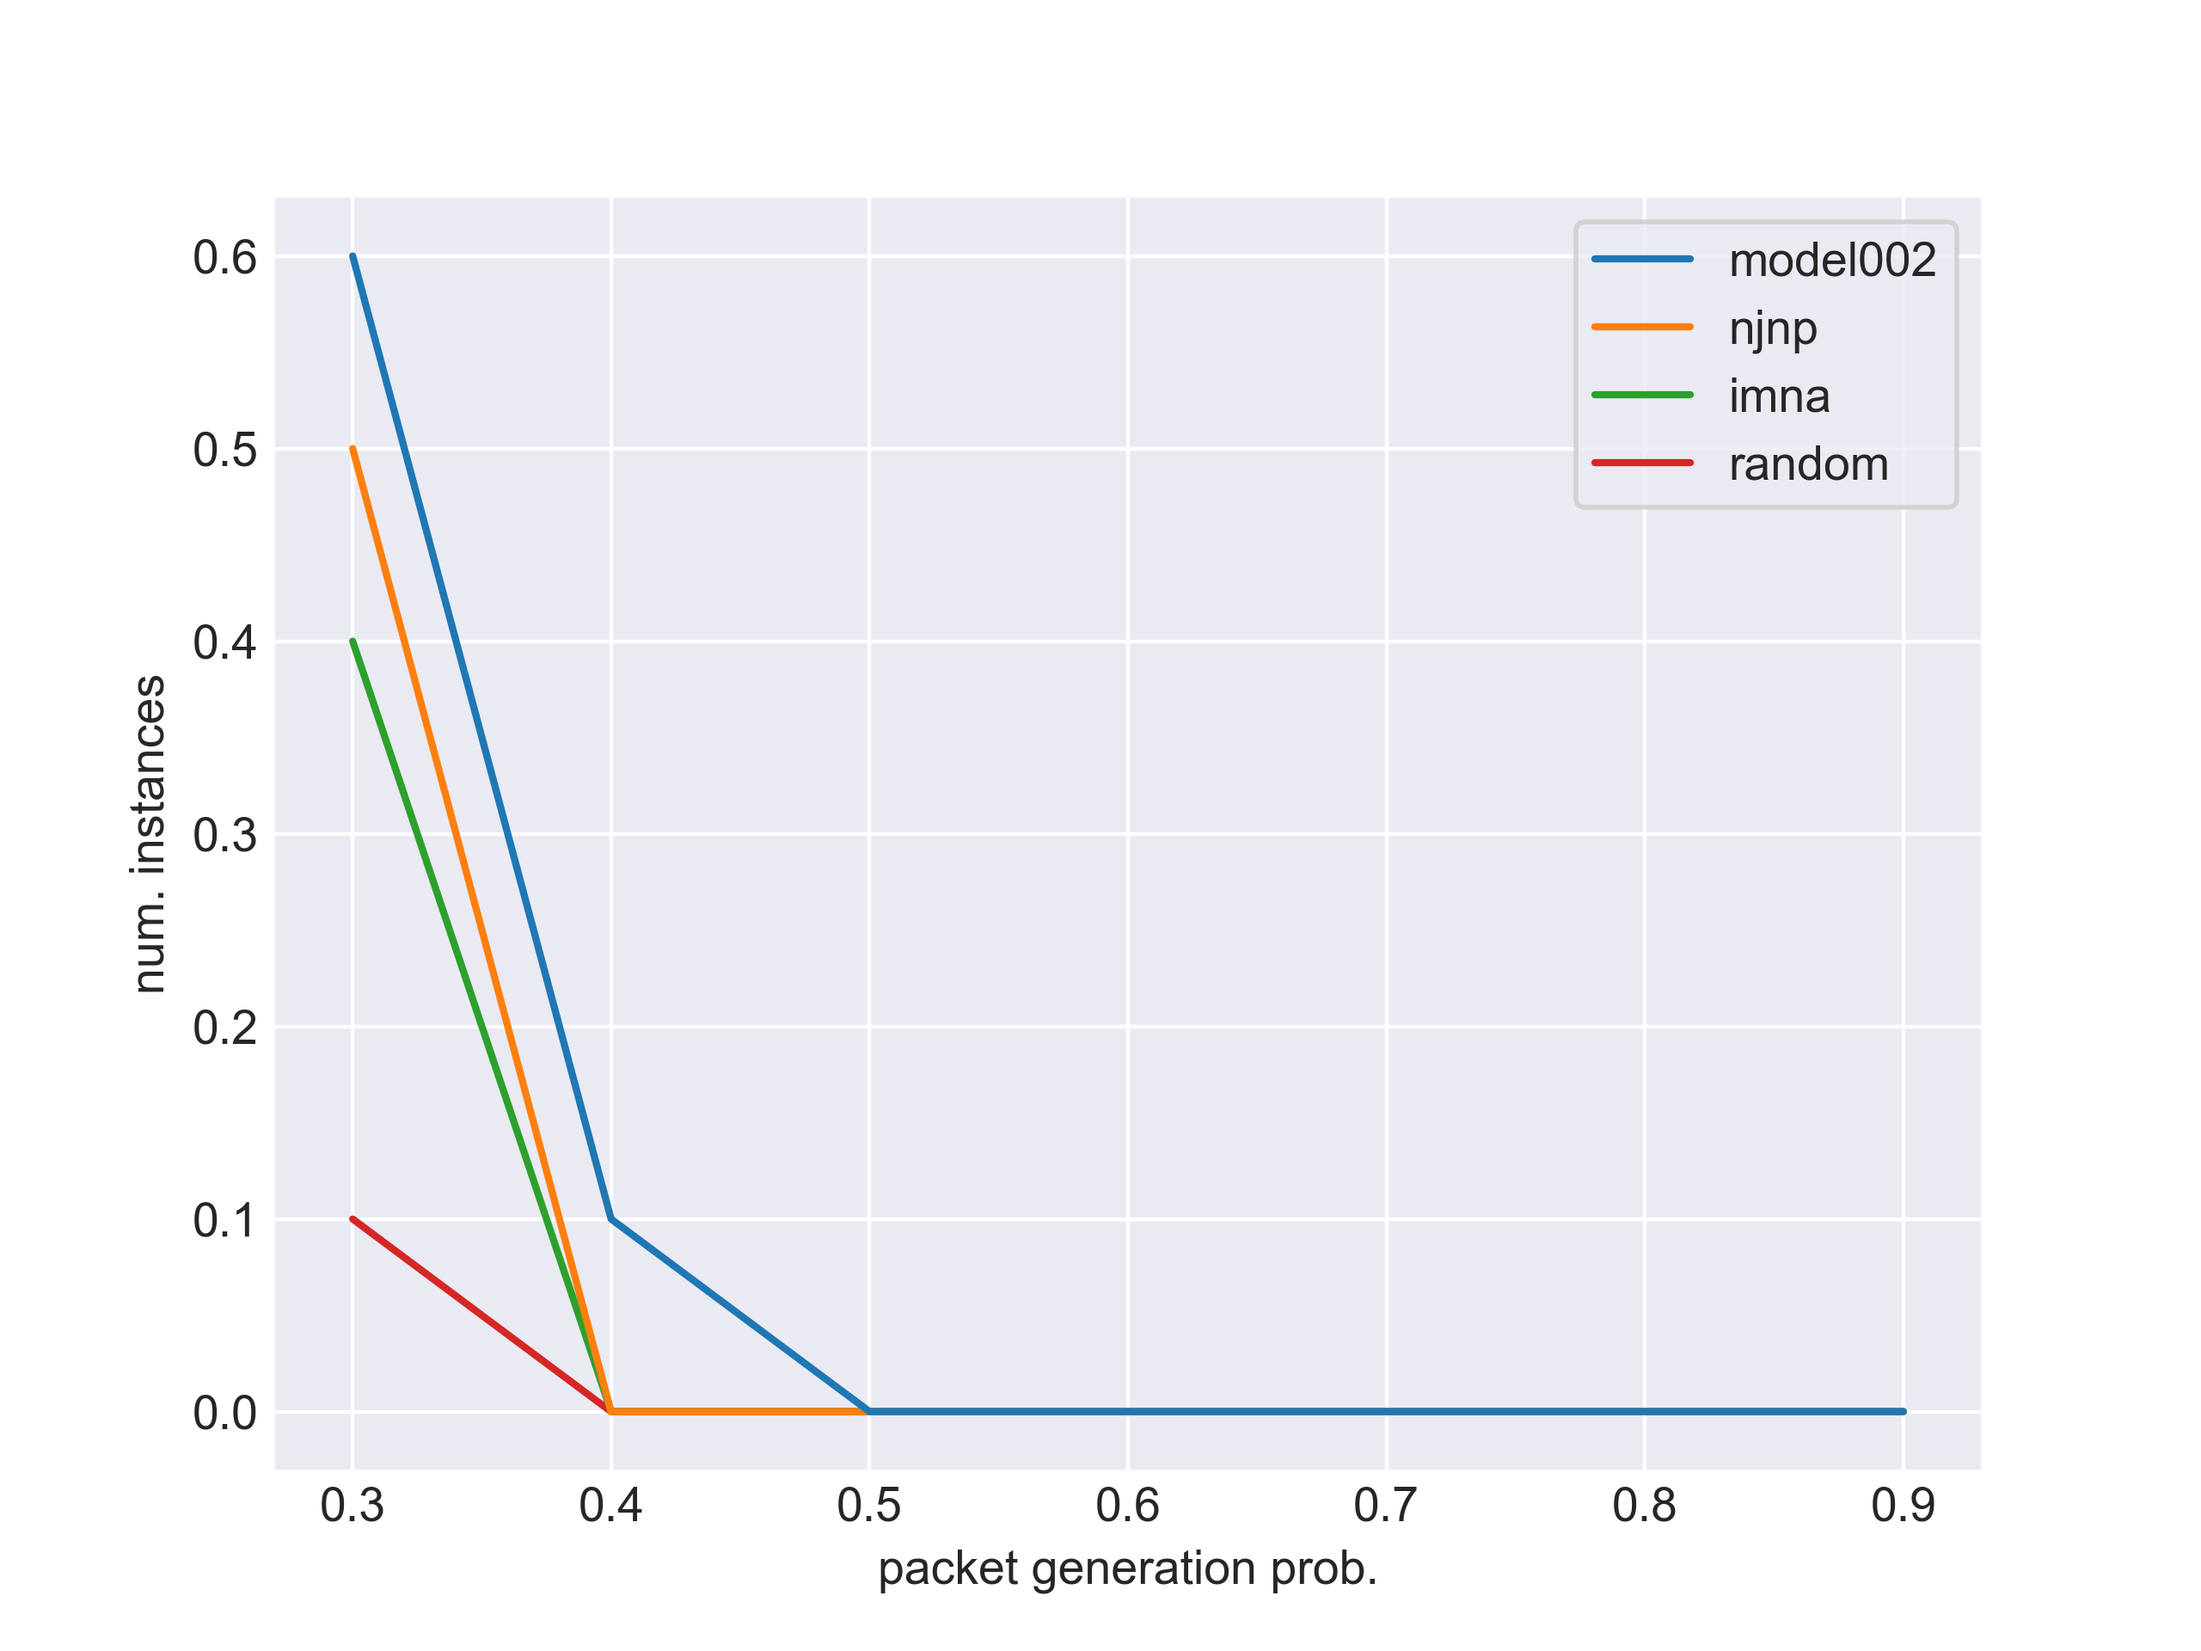
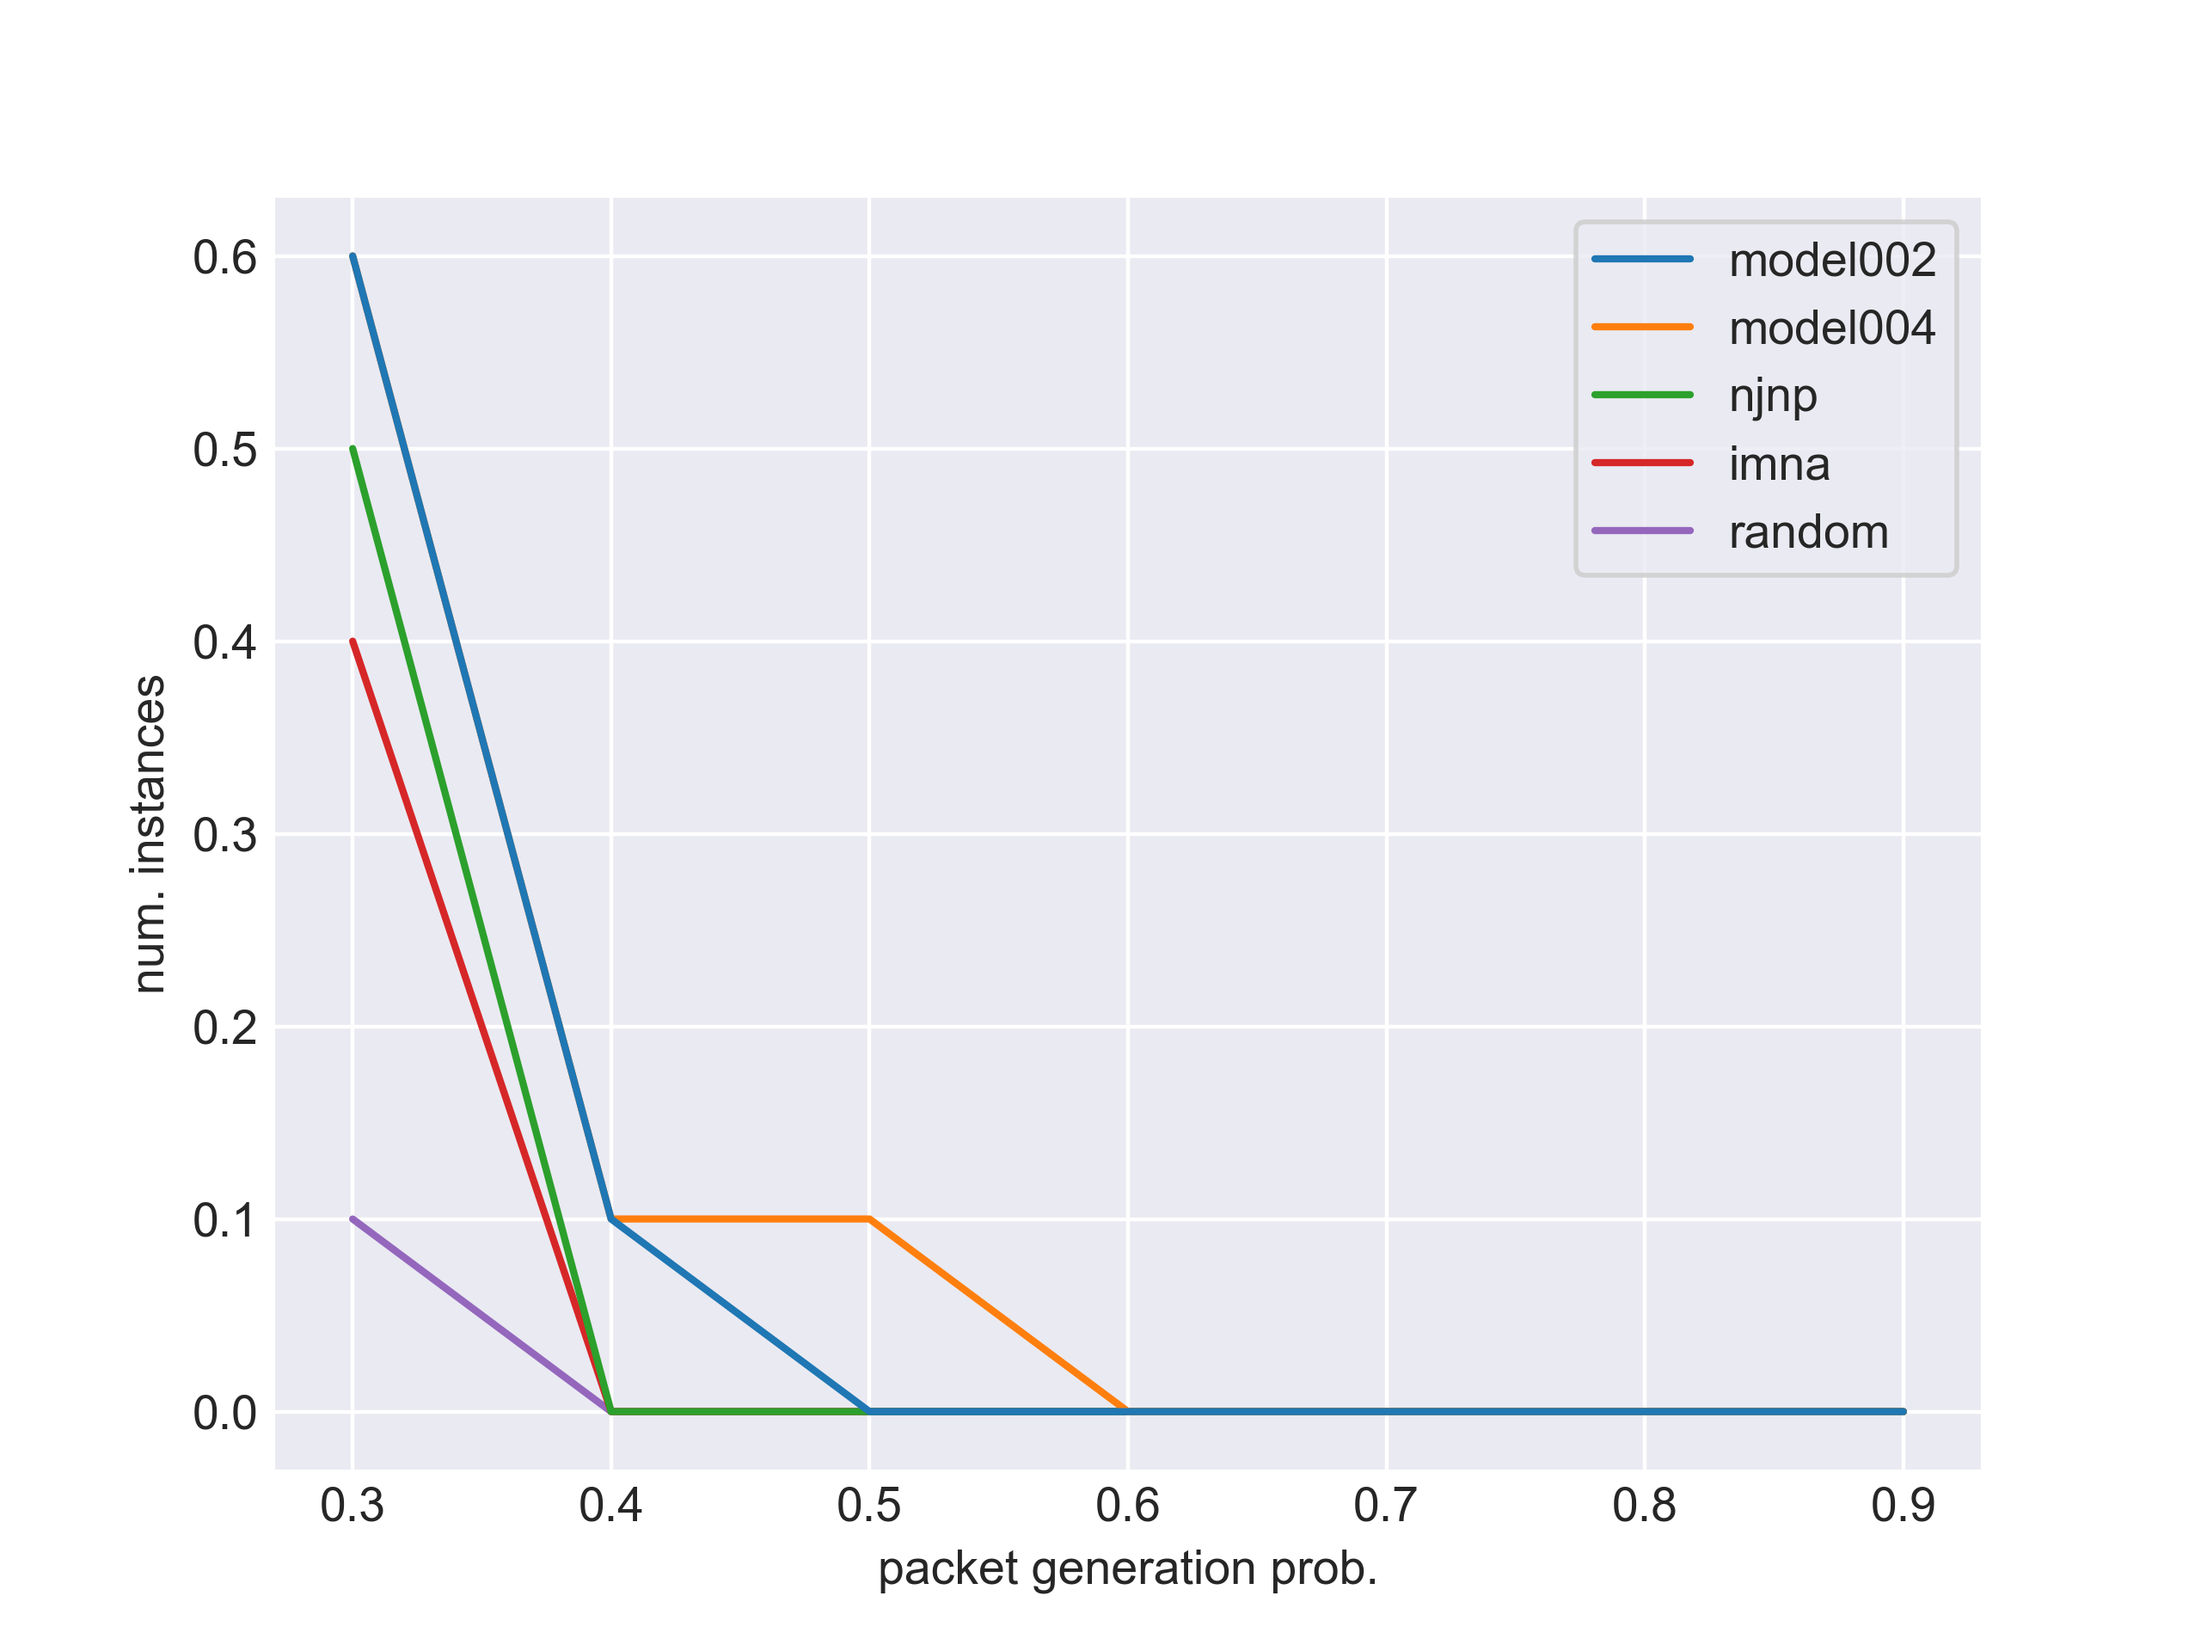
update ept3 results

diff --git a/run_ept_3.py b/run_ept_3.py
@@ -235,16 +235,17 @@ def run_ept_3(seed=123, save_dir='results', rerun=[]):
         finite = np.isfinite(lifetime_values)
         max_value = np.max(lifetime_values[finite])
 
-        max_scale = 1.5
-        step = 0.1
-        margin = 0.1
+        max_scale = 1.8
+        step = 0.22
+        margin = 0.2
         i = 0
         marker = itertools.cycle(['x', '*', 'v', '^', "s", "v", "^"])
         for name, (probs, lifetimes) in data.items():
+            print(name)
             lifetimes = np.array(lifetimes)
             inf_idx = np.isinf(lifetimes)
             lifetimes[inf_idx] = max_value * (max_scale - i *step)
-            ax.scatter(probs, lifetimes, label=label_map[name], alpha=0.6, s=10, 
+            ax.scatter(probs, lifetimes, label=label_map[name], alpha=0.5, s=10, 
                         marker=next(marker), plotnonfinite=True, zorder=10-i)
             i += 1
 
@@ -281,7 +282,7 @@ def run_ept_3(seed=123, save_dir='results', rerun=[]):
         inf_lifetimes = []
         x = []
         for ft, e in model_data:
-            x.extend(e['inf_lifetimes'])
+            x.extend(e['inf_lifetimes'][:300])
         for prob, lifetime in x:
             idx.append(prob)
             inf_lifetimes.append(lifetime)

diff --git a/model004.py b/model004.py
@@ -1,0 +1,28 @@
+import sys
+sys.path.insert(0, './model002')
+
+from utils import device, pdump, pload
+from utils import WRSNDataset
+from utils import WrsnParameters as wp, DrlParameters as dp
+from model import MCActor
+import main as model002
+import os
+import torch
+from random_strategy import random_decision_maker
+from main import decision_maker
+
+def run_model004(data_loader, name, save_dir, wp, max_step=1000):
+    actor = MCActor(dp.MC_INPUT_SIZE,
+                    dp.DEPOT_INPUT_SIZE,
+                    dp.SN_INPUT_SIZE,
+                    dp.hidden_size,
+                    dp.dropout).to(device)
+
+    save_dir = os.path.join(save_dir, name)
+    checkpoint = 'model002/checkpoints/mc_20_10_2_small_1/6'
+    path = os.path.join(checkpoint, 'actor.pt')
+    actor.load_state_dict(torch.load(path, device))
+
+    ret = model002.validate(data_loader, decision_maker, (actor,), wp=wp, max_step=max_step,
+                            render=False, verbose=False)
+    return ret

diff --git a/run_ept_12.py b/run_ept_12.py
@@ -17,6 +17,7 @@ import os
 import joblib
 import time
 
+import model004
 import model002
 import imna
 import njnp
@@ -24,6 +25,7 @@ import gsa
 
 solvers = {
     "model002": model002.run,
+    "model004": model004.run_model004,
     "gsa": gsa.run_gsa,
     "imna": imna.run_imna,
     "njnp": njnp.run_njnp,
